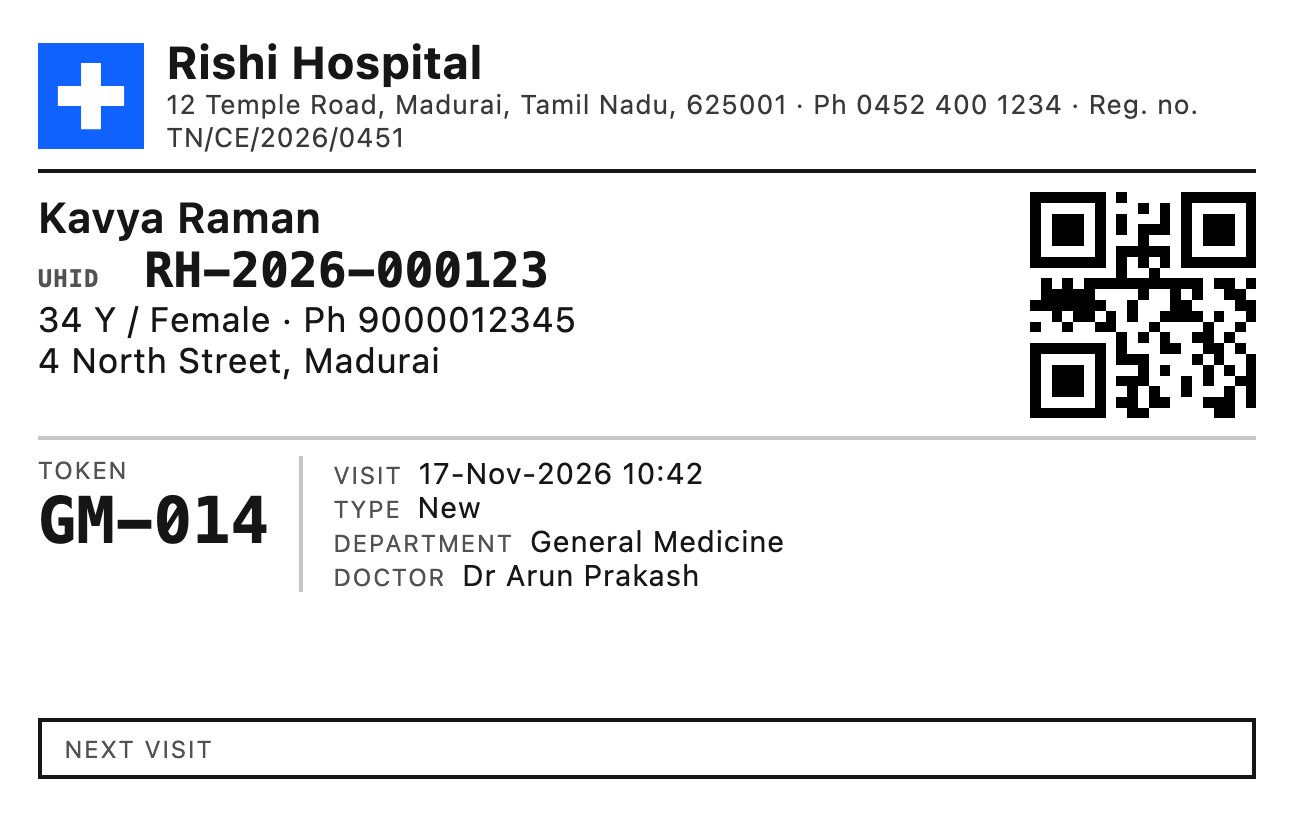
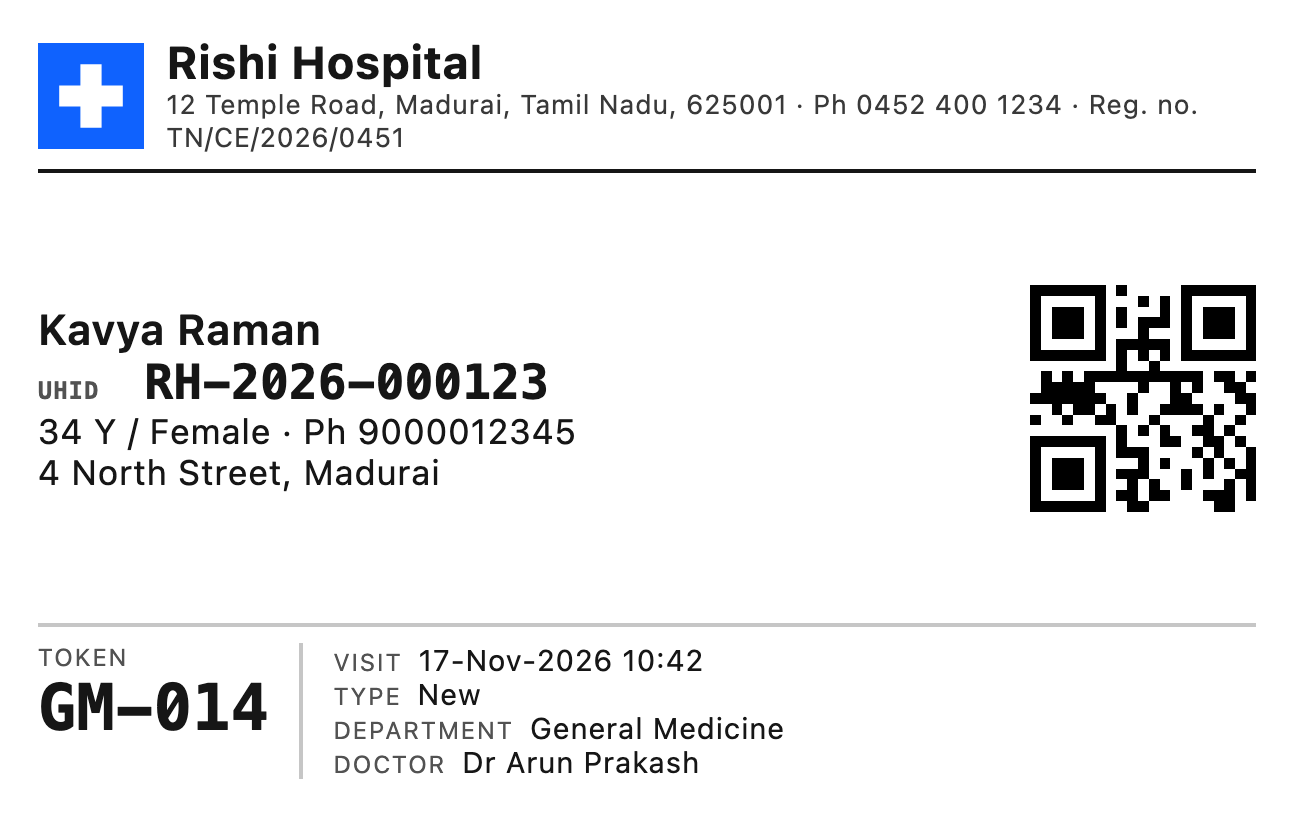
Drop the next-visit box from the OPD card
The card is printed once and kept by the patient, so a next-visit date on
it is stale by the second visit, and nothing in OPD saved the date the box
read: it always printed empty. The next visit is told to the patient or
written on the prescription; the patient block takes the freed space.

Changed region(s): [[0.0309, 0.2145, 0.9877, 0.7353], [0.0309, 0.7659, 0.9568, 0.9804], [0.216, 0.7659, 0.2469, 0.7966]]

diff --git a/medbrains/apps/web/src/lib/print/opd-card.ts b/medbrains/apps/web/src/lib/print/opd-card.ts
@@ -83,12 +83,6 @@ function visitBlock(visit: OpdCardVisit): string {
   );
 }
 
-/** The box the doctor or desk writes the next visit in, filled once one is set. */
-function followUp(visit: OpdCardVisit | null): string {
-  const date = visit?.follow_up_date ? esc(visit.follow_up_date) : "";
-  return `<div class="follow"><span class="label">Next visit</span><span class="follow-date">${date}</span></div>`;
-}
-
 const SHARED_CSS = `
   * { margin: 0; padding: 0; box-sizing: border-box; }
   body { font-family: "IBM Plex Sans", "MedBrains Sans", system-ui, sans-serif; color: #161616; }
@@ -97,7 +91,7 @@ const SHARED_CSS = `
   .logo { object-fit: contain; }
   .hospital { font-weight: 700; }
   .contact { color: #393939; }
-  .patient { display: flex; justify-content: space-between; }
+  .patient { display: flex; justify-content: space-between; align-items: center; flex: 1; }
   .name { font-weight: 600; }
   .uhid { font-family: "IBM Plex Mono", ui-monospace, monospace; font-weight: 700; }
   .label { color: #525252; text-transform: uppercase; letter-spacing: 0.04em; margin-right: 4px; }
@@ -107,7 +101,6 @@ const SHARED_CSS = `
   .token-number { font-family: "IBM Plex Mono", ui-monospace, monospace; font-weight: 700; }
   .fields { display: grid; grid-template-columns: 1fr 1fr; flex: 1; }
   .field { overflow: hidden; white-space: nowrap; text-overflow: ellipsis; }
-  .follow { border: 1px solid #161616; display: flex; align-items: center; }
   @media print { .card { break-inside: avoid; } }
 `;
 
@@ -118,16 +111,15 @@ const SLIP_CSS = `
   .logo { max-height: 16mm; max-width: 30mm; }
   .hospital { font-size: 18pt; }
   .contact { font-size: 9pt; margin-top: 1mm; }
-  .name { font-size: 15pt; }
-  .uhid { font-size: 16pt; margin: 1mm 0; }
-  .line { margin-top: 1mm; }
+  .name { font-size: 20pt; }
+  .uhid { font-size: 22pt; margin: 2mm 0; }
+  .line { margin-top: 1.5mm; font-size: 13pt; }
   .label { font-size: 8pt; }
-  .qr { width: 30mm; height: 30mm; }
+  .qr { width: 42mm; height: 42mm; }
   .visit { padding-top: 3mm; gap: 5mm; }
   .token { padding-right: 5mm; min-width: 34mm; }
   .token-number { font-size: 28pt; }
   .fields { gap: 2mm 6mm; }
-  .follow { margin-top: auto; padding: 3mm; height: 14mm; gap: 4mm; font-size: 12pt; }
 `;
 
 const ID_CARD_CSS = `
@@ -146,7 +138,6 @@ const ID_CARD_CSS = `
   .token { padding-right: 2mm; }
   .token-number { font-size: 12pt; }
   .fields { grid-template-columns: 1fr; font-size: 5.5pt; }
-  .follow { margin-top: auto; padding: 0.8mm 1.5mm; gap: 2mm; }
 `;
 
 /** The page for `data` on the paper `format` names. */
@@ -160,7 +151,6 @@ export function renderOpdCard(data: OpdCardPrintData, format: OpdCardFormat = "s
       letterhead(data) +
       patientBlock(data, isCard ? 96 : 160) +
       visit +
-      followUp(data.visit) +
       `</main>`,
   };
 }

diff --git a/medbrains/apps/web/src/lib/print/opd-card.test.ts b/medbrains/apps/web/src/lib/print/opd-card.test.ts
@@ -23,7 +23,6 @@ const CARD: OpdCardPrintData = {
     doctor: "Dr Arun Prakash",
     token_number: "GM-014",
     is_repeat: false,
-    follow_up_date: null,
   },
 };
 
@@ -49,10 +48,10 @@ describe("renderOpdCard", () => {
     expect(renderOpdCard(CARD, "slip").css).toContain("size: A5 landscape");
   });
 
-  it("prints identity alone when there is no visit, with the next-visit box left to fill", () => {
+  it("prints identity alone when there is no visit, and never a next-visit box", () => {
     const { body } = renderOpdCard({ ...CARD, visit: null });
     expect(body).not.toContain("Token");
-    expect(body).toContain("Next visit");
+    expect(renderOpdCard(CARD).body).not.toContain("Next visit");
   });
 
   it("escapes what a person typed rather than writing it as markup", () => {

diff --git a/medbrains/packages/types/src/print-data.generated.ts b/medbrains/packages/types/src/print-data.generated.ts
@@ -5009,6 +5009,4 @@ export interface OpdCardVisit {
   token_number: string | null;
   /** True when the patient has an earlier OPD visit here. */
   is_repeat: boolean;
-  /** The next visit, once the doctor has set one. */
-  follow_up_date: string | null;
 }

diff --git a/medbrains/crates/medbrains-print-data/src/opd_card.rs b/medbrains/crates/medbrains-print-data/src/opd_card.rs
@@ -189,7 +189,6 @@ struct VisitRow {
     doctor: Option<String>,
     token_number: Option<String>,
     is_repeat: bool,
-    follow_up_date: Option<NaiveDate>,
 }
 
 /// The visit, its department and doctor, and the token the board calls.
@@ -210,8 +209,7 @@ async fn visit_row(
            EXISTS (SELECT 1 FROM encounters prev \
              WHERE prev.tenant_id = e.tenant_id AND prev.patient_id = e.patient_id \
                AND prev.encounter_type = 'opd' AND prev.deleted_at IS NULL \
-               AND prev.id <> e.id AND prev.created_at < e.created_at) AS \"is_repeat!\", \
-           e.follow_up_date \
+               AND prev.id <> e.id AND prev.created_at < e.created_at) AS \"is_repeat!\" \
          FROM encounters e \
          LEFT JOIN departments d ON d.id = e.department_id AND d.tenant_id = e.tenant_id \
          LEFT JOIN users doc ON doc.id = e.doctor_id AND doc.tenant_id = e.tenant_id \
@@ -243,7 +241,6 @@ fn visit_of(row: VisitRow, tz: FixedOffset) -> OpdCardVisit {
         doctor: row.doctor,
         token_number: row.token_number,
         is_repeat: row.is_repeat,
-        follow_up_date: row.follow_up_date.map(|d| d.format("%d-%b-%Y").to_string()),
     }
 }
 

diff --git a/medbrains/crates/medbrains-core/src/opd_card_print.rs b/medbrains/crates/medbrains-core/src/opd_card_print.rs
@@ -41,6 +41,4 @@ pub struct OpdCardVisit {
     pub token_number: Option<String>,
     /// True when the patient has an earlier OPD visit here.
     pub is_repeat: bool,
-    /// The next visit, once the doctor has set one.
-    pub follow_up_date: Option<String>,
 }

diff --git a/medbrains/docs/DECISIONS.md b/medbrains/docs/DECISIONS.md
@@ -638,3 +638,4 @@ went wrong in a way that could recur gets a row too.
 | 2026-11-17 | A hospital with exactly one active department an OPD visit can use (active, clinical or para-clinical on New OPD visit; active on registration) no longer sees the department field: registration and New OPD visit fill that department in and hide the picker (`apps/web/src/lib/sole-option.ts`), so staff choose only the patient and the doctor. Two or more departments keep the required picker; while the list loads or fails the picker shows as before, so a visit is never submitted without a department. The New OPD visit list now also leaves out inactive departments. Same change: **Open OPD after registration** now defaults to unticked for every hospital; the screen stays on the registered patient (with Print OPD card), and the checkbox remains for staff who want to go straight to the visit. Camp registration sets it explicitly and is unchanged. Why: single-department clinics such as the first hospital deployment (Registration + OPD only), owner-approved. Rejected: a tenant setting (one more switch for a fact the department list already states); making `department_id` nullable on the encounter (the OPD queue, its grouping and the per-department token sequence all key on it). |
 | 2026-11-17 | Per-hospital export (`deploy/standalone/medbrains-tenant-export`, weekly `medbrains-tenant-export.timer`, off unless `TENANT_EXPORT` names tenants): one tenant's rows as an age-sealed psql script under `tenants/<code>/` (prod) or `<slug>/tenants/` (per-hospital bucket). It reads as the app role with `app.tenant_id` set (RLS) **and** `WHERE tenant_id = <id>` on every table, in one REPEATABLE READ snapshot, and refuses a superuser or BYPASSRLS role. The script loads into a fresh server of the same schema in one transaction and checks the schema version, every table's row count and every foreign key, rolling back on any mismatch | A hospital must be able to take its data, or move to its own server, and the nightly dump carries every tenant. RLS alone leaks inside a branch group that shares clinical records (`app_visible_tenants()`, shown in the test), so the explicit filter is required, not optional | `pg_dump --enable-row-security` (it cannot add a WHERE, so a sharing group leaks, and it writes shared reference rows that collide with the target's seeds); exporting as the owner or superuser (no RLS fence at all); carrying the cross-hospital tables (they name a second hospital) | Done |
 | 2026-11-17 | The size budget's `kernel_closure` counts only what the kernel ships: `scripts/check_size_budgets.py` now drops each workspace crate's dev-dependencies when walking `Cargo.lock` (the lock lists them beside the real ones; registry crates never list theirs). The kernel's test-only `tokio` had pushed the count to 264 against a baseline of 263, failing every PR; the true shipped closure is 259, now the baseline. Owner's choice (option a). Rejected: raising the baseline to 264 (it would let test tooling grow the shipped count unnoticed) and `cargo tree -e normal` (needs a build; feature-dependent). |
+| 2026-11-17 | The OPD card no longer has a "Next visit" box, in either size: `OpdCardVisit.follow_up_date` and its query column are gone from `opd_card.rs` and the generated print types, and the patient block takes the freed space (centred; larger on the half-A4 slip) | The card is a once-printed identity card the patient keeps, so a date on it is stale by the second visit; the next visit is told to the patient or written on the prescription. Found writing Rishi Hospital's user guide: nothing in OPD saved the date the box read, so it always printed empty | Rejected: a doctor-set next-visit date on the encounter printed on the card (it would be right only on the day the card was printed); booking a follow-up appointment for it (needs doctor schedule slots a one-doctor clinic does not keep) | Done |

diff --git a/medbrains/docs/sops/01-patient-registration.md b/medbrains/docs/sops/01-patient-registration.md
@@ -56,7 +56,7 @@ Patient Registration is the entry point for all clinical care in MedBrains. It c
 6. System validates no duplicate by mobile + DOB combination; warns if near-match found.
 7. Receptionist confirms and submits → UHID generated and printed on registration slip.
 8. Patient is queued for selected OPD department.
-9. The "patient registered" notice offers **Print OPD card**: the half-A4 OPD slip or the CR80 ID card. Headed with the hospital's name, logo, address, phone and registration number from its own profile (Admin → Settings → General and Branding); carries name, UHID with a QR of it, age and sex, phone, short address and, when a visit was opened, its date and time, department, doctor, token and new-or-repeat, plus a next-visit box. No clinical data. The same control is on the OPD queue row (the visit's card) and the patient record header. Gated on `patients.view` and the patient's access check; data from `GET /api/print-data/opd-card/{patient_id}` and `/api/print-data/opd-visit-card/{encounter_id}`.
+9. The "patient registered" notice offers **Print OPD card**: the half-A4 OPD slip or the CR80 ID card. Headed with the hospital's name, logo, address, phone and registration number from its own profile (Admin → Settings → General and Branding); carries name, UHID with a QR of it, age and sex, phone, short address and, when a visit was opened, its date and time, department, doctor, token and new-or-repeat. No next-visit box: the card is printed once and kept, so the next visit is told to the patient or written on the prescription. No clinical data. The same control is on the OPD queue row (the visit's card) and the patient record header. Gated on `patients.view` and the patient's access check; data from `GET /api/print-data/opd-card/{patient_id}` and `/api/print-data/opd-visit-card/{encounter_id}`.
    Sample, fictional hospital and patient: ![OPD slip](images/opd-card-slip.png) ![CR80 card](images/opd-card-id-card.png)
 10. After registering, the screen stays on the new patient's record (with the notice above). **Open OPD after registration** is unticked by default; tick it to go straight to the visit instead. Camp registration keeps its own setting (on while the EMR is on).
 
